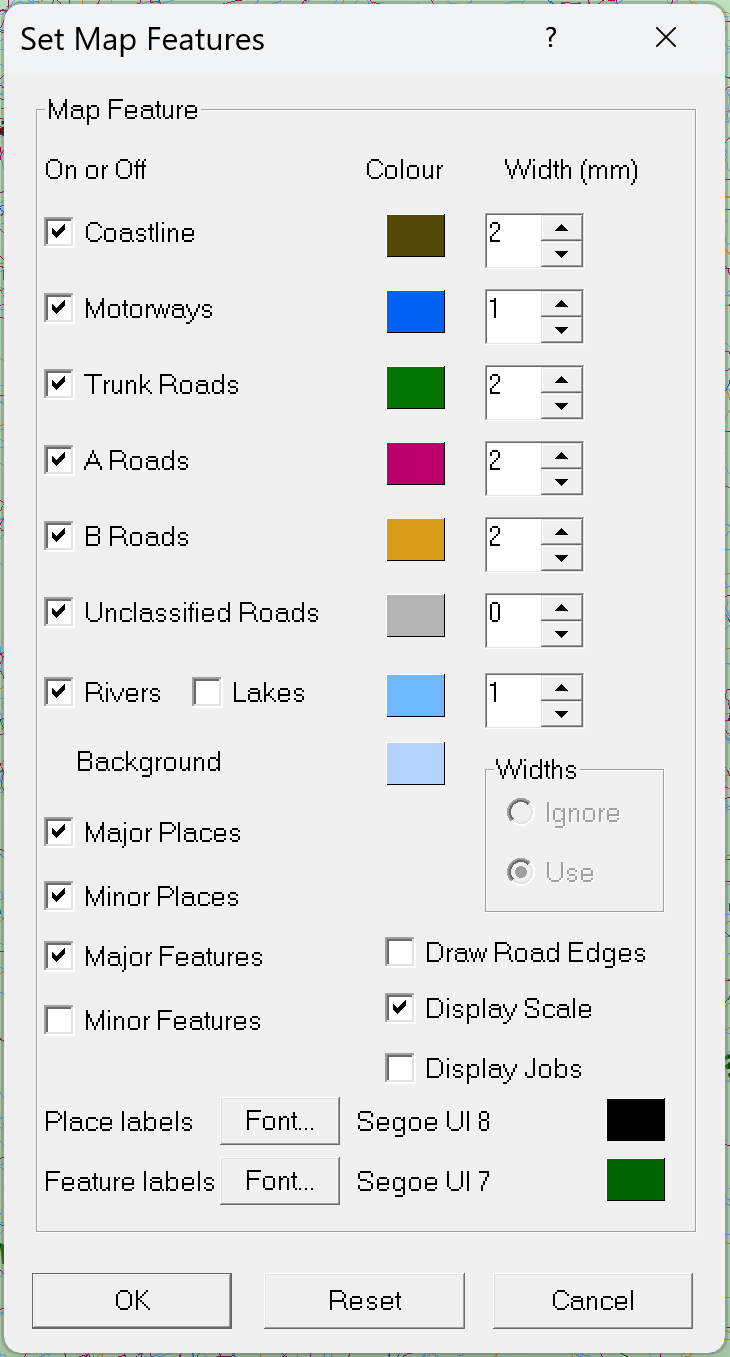
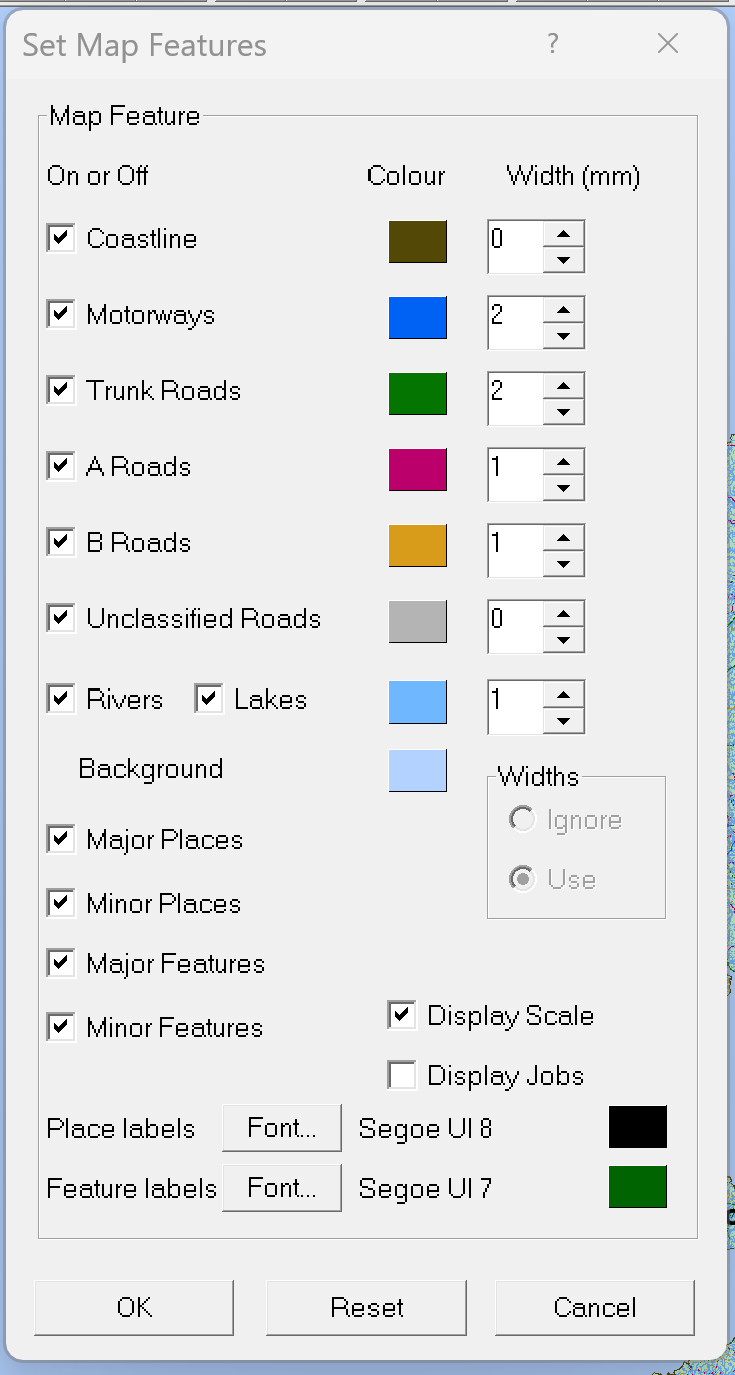
Update "Set Map Features" dialog to remobve teh road edges checkbox since it does nothing, and improve the HTML help.

diff --git a/GenGIS.htm b/GenGIS.htm
@@ -77,9 +77,10 @@
 
     <p>
         While you are dragging or pinching, GenGIS switches to a <b>quick-draw</b> mode &mdash; it draws just the coastline
-        and the major roads as thin lines so the map keeps up with your fingers, then fills in the full detail (minor roads,
-        rivers, lakes and all the labels) the moment you let go. Major town names stay on screen even during the drag, so you
-        can always see where you are heading.
+        and the main roads (motorways down to B roads) as thin lines so the map keeps up with your fingers, then fills in the
+        full detail (minor roads, rivers, lakes and all the labels) the moment you let go. Major town names stay on screen
+        even during the drag, so you can always see where you are heading. Drawing itself is heavily optimised &mdash; only
+        what is actually in view is processed &mdash; so even busy town views redraw in a fraction of a second.
     </p>
     <div style="clear:both;"></div>
     <hr>
@@ -143,7 +144,8 @@
         the drop-down at the bottom of the picker. An <b>Add</b> button applies your choice without closing the window, so you
         can add several things in one session; picking an item that is already displayed offers to <b>remove</b> it again.
         Rows that are already on the map are labelled &mdash; e.g. <em>(already in Major list)</em> &mdash; so you can see at
-        a glance what you have already added. A <b>Search Properties</b> box lets you find places and features <b>by name</b>
+        a glance what you have already added. A <b>Zoom to ...</b> button jumps the map straight to the selected item, and a
+        <b>Search Properties</b> box lets you find places and features <b>by name</b>
         rather than by clicking, provided they appear in the list of nearby items. The maximum number of entries is set in the
         <a href="#Properties">Map Properties</a> dialog.
     </p>
@@ -158,8 +160,10 @@
     <p>
         The <b>Map Properties</b> dialog is a set of tabbed pages &mdash; <b>Files</b>, <b>Places</b> and <b>Features</b>.
         Between them they hold the <b>data directory</b> the OS map files are read from (which defaults to a <em>Data</em>
-        folder beside the program), where your <b>displayed places and features</b> are saved, and how many nearby items the
-        pickers list &mdash; both when picking directly on the map and when the finder list is shown. Your choices are
+        folder beside the program), where your <b>displayed places and features</b> are saved, how many nearby items the
+        pickers list &mdash; both when picking directly on the map and when the finder list is shown &mdash; and whether
+        <b>.gis session files</b> are saved in the modern <b>JSON</b> format or the original 1998 format (see
+        <a href="#Saving">Saving Images and Sessions</a>). Your choices are
         remembered between sessions, and there is a one-click way to return everything to sensible defaults. The <b>Places</b>
         page is shown above.
     </p>
@@ -193,7 +197,6 @@
             would be needlessly slow and the width differences would not be visible at that scale anyway.
         </li>
     </ul>
-    <p>Anything you have deliberately <a href="#Picking">picked</a> is always drawn, whatever these cut-offs say.</p>
 
     <h3>Re-organising displayed places and features</h3>
     <p>
@@ -210,6 +213,10 @@
             <b>Delete an item</b> by dragging it onto the <b>waste bin</b>, or by selecting it and pressing the <b>Delete</b>
             key &mdash; which moves it to the bin. Pressing <b>Delete</b> again on something already in the bin removes it for
             good.
+        </li>
+        <li>
+            <b>Double-click an item</b> to <b>zoom the map straight to it</b> &mdash; a quick way to check exactly which
+            place or feature an entry refers to before you move or delete it.
         </li>
     </ul>
     <p>
@@ -231,10 +238,24 @@
 
     <p>
         You can save the map you are looking at as an <b>image</b> &mdash; <b>JPEG</b>, <b>PNG</b> or <b>BMP</b>
-        &mdash; straight from <em>File &rarr; Save As</em>, choosing the format by the file extension you give it. Saving to a
+        &mdash; straight from <em>File &rarr; Save As</em>, choosing the format from the <b>file-type drop-down</b> (the file
+        extension follows your choice automatically). Saving to a
         <b>.gis</b> file instead stores the <b>session</b>: your current position and magnification together with which
         layers, widths and scale are switched on, so re-opening it restores that view. Your displayed place and feature lists
         are kept safely alongside, so they are there again next time you run the program.
+    </p>
+
+    <p>
+        By default .gis sessions are written in a readable <b>JSON</b> text format; a checkbox on the
+        <a href="#Properties">Map Properties</a> <b>Files</b> page lets you save in the original 1998 format instead.
+        Opening a .gis file works either way &mdash; GenGIS detects the format automatically, so sessions saved by the
+        original program still load.
+    </p>
+
+    <p>
+        Two more quick ways to get at the map: <b>Edit &rarr; Copy</b> puts the current map image on the <b>clipboard</b>,
+        ready to paste into a document or image editor, and <b>File &rarr; New</b> clears the session and returns to the
+        <b>whole-of-Britain</b> starting view (it warns you first, since your zoom history is discarded).
     </p>
 
     <!-- Help Image - a saved-map example (e.g. an exported PNG of a region). -->
@@ -270,7 +291,7 @@
 
         <div class="feature-item">
             <h3>Fast Quick-Draw</h3>
-            <p>While panning or zooming, only the coast and major roads are drawn, so the map keeps up; full detail returns on release.</p>
+            <p>While panning or zooming, only the coast and main roads are drawn, so the map keeps up; full detail returns on release.</p>
         </div>
 
         <div class="feature-item">
@@ -290,7 +311,7 @@
 
         <div class="feature-item">
             <h3>Save Images &amp; Sessions</h3>
-            <p>Export the map as JPEG, PNG or BMP, or save a .gis session that restores your view and settings.</p>
+            <p>Export the map as JPEG, PNG or BMP, copy it to the clipboard, or save a .gis session that restores your view and settings.</p>
         </div>
     </div>
     <hr>
